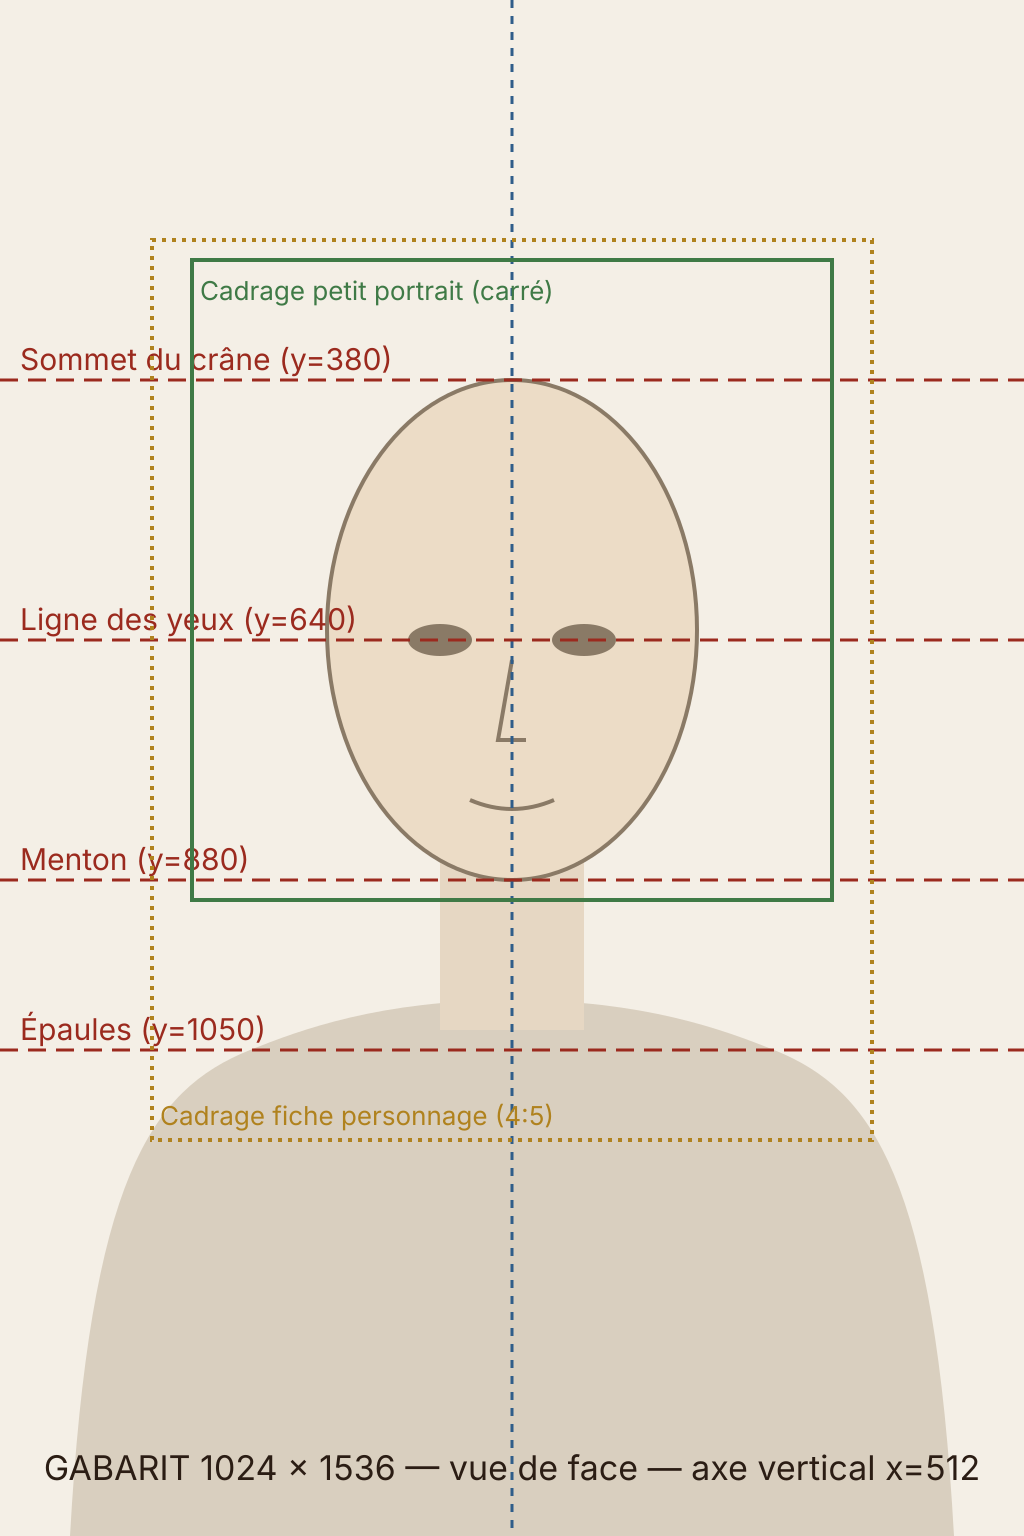
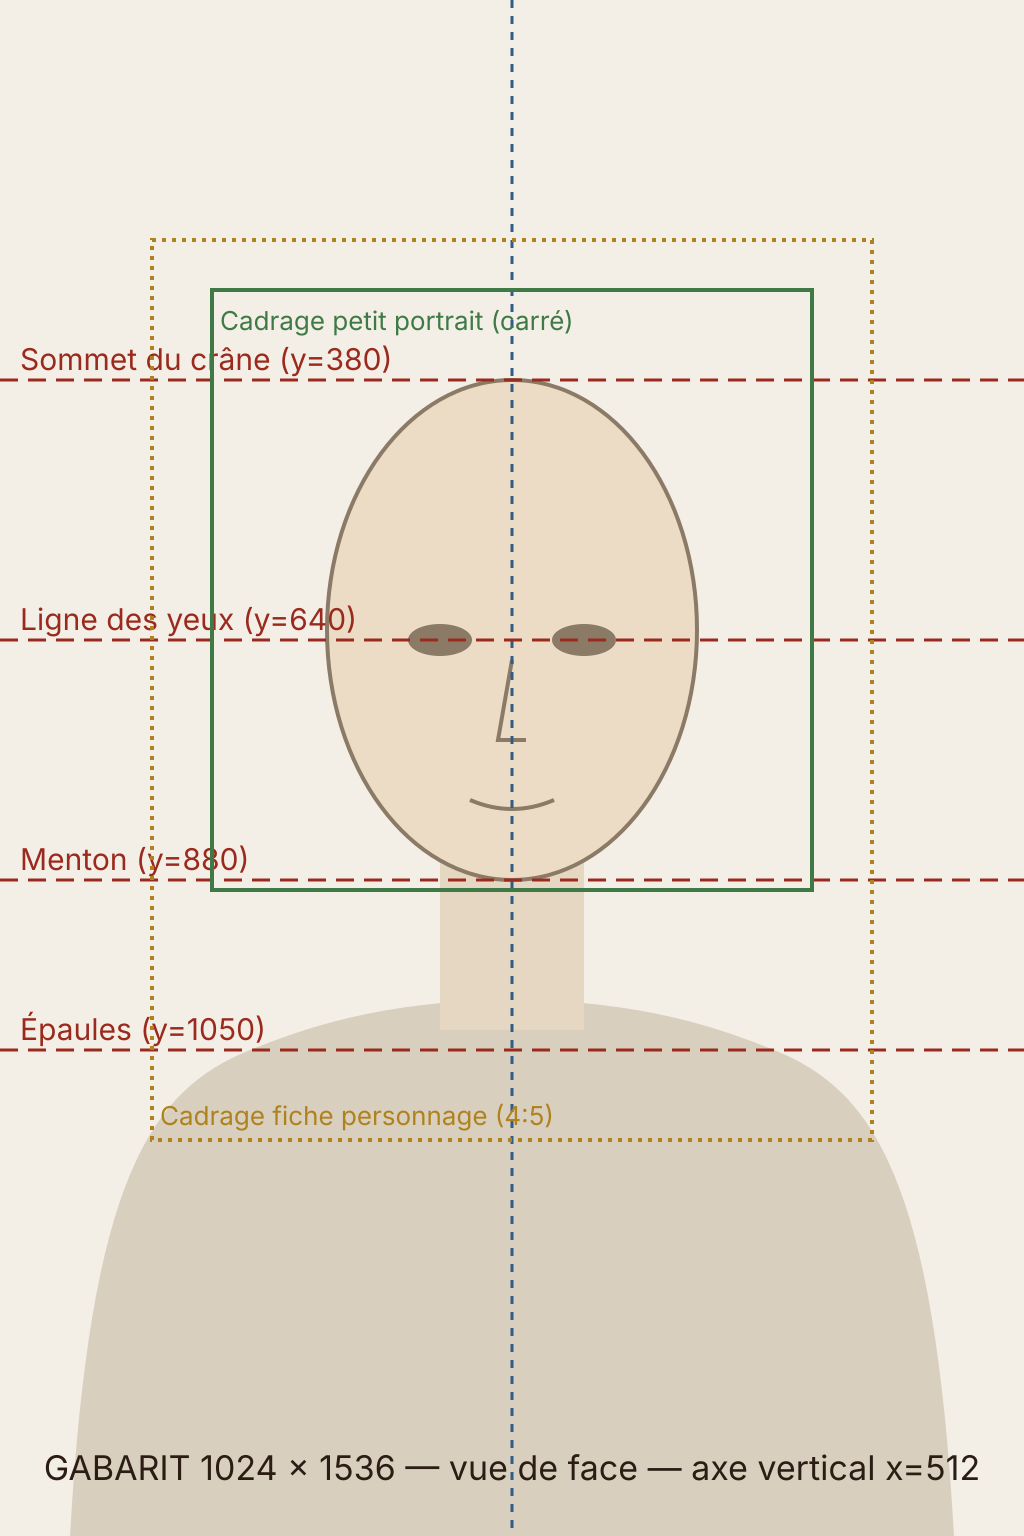
Lot 0 intégré : premiers calques de portrait peints
Préparation automatique : passage en gris des calques recolorables,
retrait des lèvres peintes dans les barbes. Réglages d'échelle et de
position du lot 0 (tête générée ~1,7 fois trop grande). Outil d'aperçu des
portraits (tools/art/apercu.mjs), cadrage des petits portraits resserré,
fond uni par défaut.

Claude-Session: https://claude.ai/code/session_01JnvLjALYW1nb3en264tgow

Changed region(s): [[0.1875, 0.1562, 0.8125, 0.5938]]

diff --git a/app/src/ui/composants/Portrait.tsx b/app/src/ui/composants/Portrait.tsx
@@ -33,7 +33,7 @@ function teinter(img: HTMLImageElement, couleur: string, force: number): HTMLCan
   return c;
 }
 
-function PortraitCalques({ calques, taille, mort }: { calques: Calque[]; taille: number; mort: boolean }) {
+function PortraitCalques({ calques, taille, mort, graine }: { calques: Calque[]; taille: number; mort: boolean; graine: number }) {
   const ref = useRef<HTMLCanvasElement>(null);
   useEffect(() => {
     let annule = false;
@@ -45,16 +45,18 @@ function PortraitCalques({ calques, taille, mort }: { calques: Calque[]; taille:
       cv.width = px; cv.height = px;
       const g = cv.getContext('2d')!;
       g.clearRect(0, 0, px, px);
+      // Fond uni par défaut tant qu'aucun calque « fond » n'est disponible
+      if (!calques.some((c) => c.id.startsWith('fond-'))) { g.fillStyle = FONDS[(graine >>> 0) % FONDS.length]!; g.fillRect(0, 0, px, px); }
       imgs.forEach((img, i) => {
         const c = calques[i]!;
         const src = c.teinte ? teinter(img, c.teinte, c.force) : img;
-        // cadrage carré du gabarit : x 192→832, y 260→900 sur une toile 1024×1536
+        // cadrage carré du gabarit : x 212→812, y 290→890 sur une toile 1024×1536
         const k = img.naturalWidth / 1024;
-        g.drawImage(src, 192 * k, 260 * k, 640 * k, 640 * k, 0, 0, px, px);
+        g.drawImage(src, 212 * k, 290 * k, 600 * k, 600 * k, 0, 0, px, px);
       });
     }).catch(() => {});
     return () => { annule = true; };
-  }, [calques, taille]);
+  }, [calques, taille, graine]);
   return <canvas ref={ref} width={taille} height={taille} role="img" aria-hidden="true"
     style={{ width: taille, height: taille, borderRadius: 10, flex: 'none', filter: mort ? 'grayscale(1)' : undefined }} />;
 }
@@ -69,7 +71,7 @@ export function Portrait({ graine, sexe, age, rang, taille = 56, mort = false, a
   { graine: number; sexe: 'h' | 'f'; age: number; rang: number; taille?: number; mort?: boolean; app?: Apparence }) {
   const m = useManifeste();
   const calques = m && app ? choisirCalques(app, m) : null;
-  if (calques) return <PortraitCalques calques={calques} taille={taille} mort={mort} />;
+  if (calques) return <PortraitCalques calques={calques} taille={taille} mort={mort} graine={graine} />;
 
   const r = rand(graine);
   const peau = PEAUX[Math.floor(r() * PEAUX.length)]!;

diff --git a/ASSETS_TODO.md b/ASSETS_TODO.md
@@ -20,37 +20,37 @@ Légende : ✅ intégrée · ⬜ à produire
 
 | | Identifiant (nom du fichier) | Catégorie | Format | Recoloration |
 |---|---|---|---|---|
-| ⬜ | `visage-h-adulte-1.png` | Visages | 1024×1536, fond transparent | teinte de peau ajustée en jeu |
-| ⬜ | `cheveux-h-court.png` | Cheveux | 1024×1536, fond transparent | recoloré en jeu (couleur de cheveux) |
-| ⬜ | `barbe-courte.png` | Barbes | 1024×1536, fond transparent | recoloré en jeu (couleur de cheveux) |
-| ⬜ | `vetement-h-tunique.png` | Vêtements | 1024×1536, fond transparent | recoloré en jeu (couleur de la maison) |
-| ⬜ | `couronne-royale.png` | Couronnes | 1024×1536, fond transparent | — |
+| ✅ | `visage-h-adulte-1.png` | Visages | 1024×1536, fond transparent | teinte de peau ajustée en jeu |
+| ✅ | `cheveux-h-court.png` | Cheveux | 1024×1536, fond transparent | recoloré en jeu (couleur de cheveux) |
+| ✅ | `barbe-courte.png` | Barbes | 1024×1536, fond transparent | recoloré en jeu (couleur de cheveux) |
+| ✅ | `vetement-h-tunique.png` | Vêtements | 1024×1536, fond transparent | recoloré en jeu (couleur de la maison) |
+| ✅ | `couronne-royale.png` | Couronnes | 1024×1536, fond transparent | — |
 
-### ⬜ `visage-h-adulte-1.png`
+### ✅ `visage-h-adulte-1.png`
 
 ```text
 Realistic medieval portrait painting set in Western Europe around 1066 (Norman and Anglo-Saxon era). Refined egg-tempera and oil panel technique with a subtle illuminated-manuscript influence, fine visible brushwork, soft warm light from the upper left, earthy natural palette (ochre, umber, madder red, woad blue, verdigris green). Historically accurate: no plate armour, no Renaissance or Gothic fashion, no modern elements. LAYER ASSET for a layered character-portrait system. Canvas exactly 1024x1536 pixels, portrait orientation, fully transparent background (PNG with alpha channel). Front view, the person looks straight at the viewer. Match EXACTLY the position, scale and proportions of the attached template image gabarit-portrait.png (head centred horizontally at x=512, top of skull at y=380, eye line at y=640, chin at y=880, shoulders at y=1050). Draw ONLY the element described below and nothing else: no background, no frame, no text, no extra body parts. Element: the bare head, ears, neck and upper chest skin of a man of about 38, oval face, straight nose, calm neutral expression, fair European skin tone. The head is completely BALD and CLEAN-SHAVEN (hair and beard are separate layers), no clothing, no jewellery. Neck and chest end cleanly at the shoulder line so clothing layers can cover them.
 ```
 
-### ⬜ `cheveux-h-court.png`
+### ✅ `cheveux-h-court.png`
 
 ```text
 Realistic medieval portrait painting set in Western Europe around 1066 (Norman and Anglo-Saxon era). Refined egg-tempera and oil panel technique with a subtle illuminated-manuscript influence, fine visible brushwork, soft warm light from the upper left, earthy natural palette (ochre, umber, madder red, woad blue, verdigris green). Historically accurate: no plate armour, no Renaissance or Gothic fashion, no modern elements. LAYER ASSET for a layered character-portrait system. Canvas exactly 1024x1536 pixels, portrait orientation, fully transparent background (PNG with alpha channel). Front view, the person looks straight at the viewer. Match EXACTLY the position, scale and proportions of the attached template image gabarit-portrait.png (head centred horizontally at x=512, top of skull at y=380, eye line at y=640, chin at y=880, shoulders at y=1050). Draw ONLY the element described below and nothing else: no background, no frame, no text, no extra body parts. Element: the hair only of an adult man: short cropped hair, Norman style. Paint this element in NEUTRAL GRAYSCALE ONLY (no hue at all, mid-gray values with natural highlights and shadows), because the game recolors it with multiply blending.
 ```
 
-### ⬜ `barbe-courte.png`
+### ✅ `barbe-courte.png`
 
 ```text
 Realistic medieval portrait painting set in Western Europe around 1066 (Norman and Anglo-Saxon era). Refined egg-tempera and oil panel technique with a subtle illuminated-manuscript influence, fine visible brushwork, soft warm light from the upper left, earthy natural palette (ochre, umber, madder red, woad blue, verdigris green). Historically accurate: no plate armour, no Renaissance or Gothic fashion, no modern elements. LAYER ASSET for a layered character-portrait system. Canvas exactly 1024x1536 pixels, portrait orientation, fully transparent background (PNG with alpha channel). Front view, the person looks straight at the viewer. Match EXACTLY the position, scale and proportions of the attached template image gabarit-portrait.png (head centred horizontally at x=512, top of skull at y=380, eye line at y=640, chin at y=880, shoulders at y=1050). Draw ONLY the element described below and nothing else: no background, no frame, no text, no extra body parts. Element: facial hair only: a short neat full beard and moustache. Paint this element in NEUTRAL GRAYSCALE ONLY (no hue at all, mid-gray values with natural highlights and shadows), because the game recolors it with multiply blending.
 ```
 
-### ⬜ `vetement-h-tunique.png`
+### ✅ `vetement-h-tunique.png`
 
 ```text
 Realistic medieval portrait painting set in Western Europe around 1066 (Norman and Anglo-Saxon era). Refined egg-tempera and oil panel technique with a subtle illuminated-manuscript influence, fine visible brushwork, soft warm light from the upper left, earthy natural palette (ochre, umber, madder red, woad blue, verdigris green). Historically accurate: no plate armour, no Renaissance or Gothic fashion, no modern elements. LAYER ASSET for a layered character-portrait system. Canvas exactly 1024x1536 pixels, portrait orientation, fully transparent background (PNG with alpha channel). Front view, the person looks straight at the viewer. Match EXACTLY the position, scale and proportions of the attached template image gabarit-portrait.png (head centred horizontally at x=512, top of skull at y=380, eye line at y=640, chin at y=880, shoulders at y=1050). Draw ONLY the element described below and nothing else: no background, no frame, no text, no extra body parts. Element: clothing only, covering the shoulders and upper chest down to the bottom of the canvas: a nobleman's wool tunic with a round neckline and a simple embroidered border. Leave the neck opening empty (the neck is on another layer). Paint this element in NEUTRAL GRAYSCALE ONLY (no hue at all, mid-gray values with natural highlights and shadows), because the game recolors it with multiply blending.
 ```
 
-### ⬜ `couronne-royale.png`
+### ✅ `couronne-royale.png`
 
 ```text
 Realistic medieval portrait painting set in Western Europe around 1066 (Norman and Anglo-Saxon era). Refined egg-tempera and oil panel technique with a subtle illuminated-manuscript influence, fine visible brushwork, soft warm light from the upper left, earthy natural palette (ochre, umber, madder red, woad blue, verdigris green). Historically accurate: no plate armour, no Renaissance or Gothic fashion, no modern elements. LAYER ASSET for a layered character-portrait system. Canvas exactly 1024x1536 pixels, portrait orientation, fully transparent background (PNG with alpha channel). Front view, the person looks straight at the viewer. Match EXACTLY the position, scale and proportions of the attached template image gabarit-portrait.png (head centred horizontally at x=512, top of skull at y=380, eye line at y=640, chin at y=880, shoulders at y=1050). Draw ONLY the element described below and nothing else: no background, no frame, no text, no extra body parts. Element: only the crown, resting on the head at the exact height of the template: an 11th-century royal crown: a gold band with four fleuron points and set gemstones. Polished gold, natural colours.

diff --git a/ART_DIRECTION.md b/ART_DIRECTION.md
@@ -104,7 +104,7 @@ tonsure et l'habit remplacent les autres choix pour les religieux.
 
 ### Cadrages utilisés par le jeu
 
-- Petit portrait (listes, arbre) : carré x 192→832, y 260→900.
+- Petit portrait (listes, arbre) : carré x 212→812, y 290→890.
 - Fiche personnage : 4:5, x 152→872, y 240→1140.
 
 Ces zones sont dessinées sur le gabarit : rien d'important ne doit en sortir.
